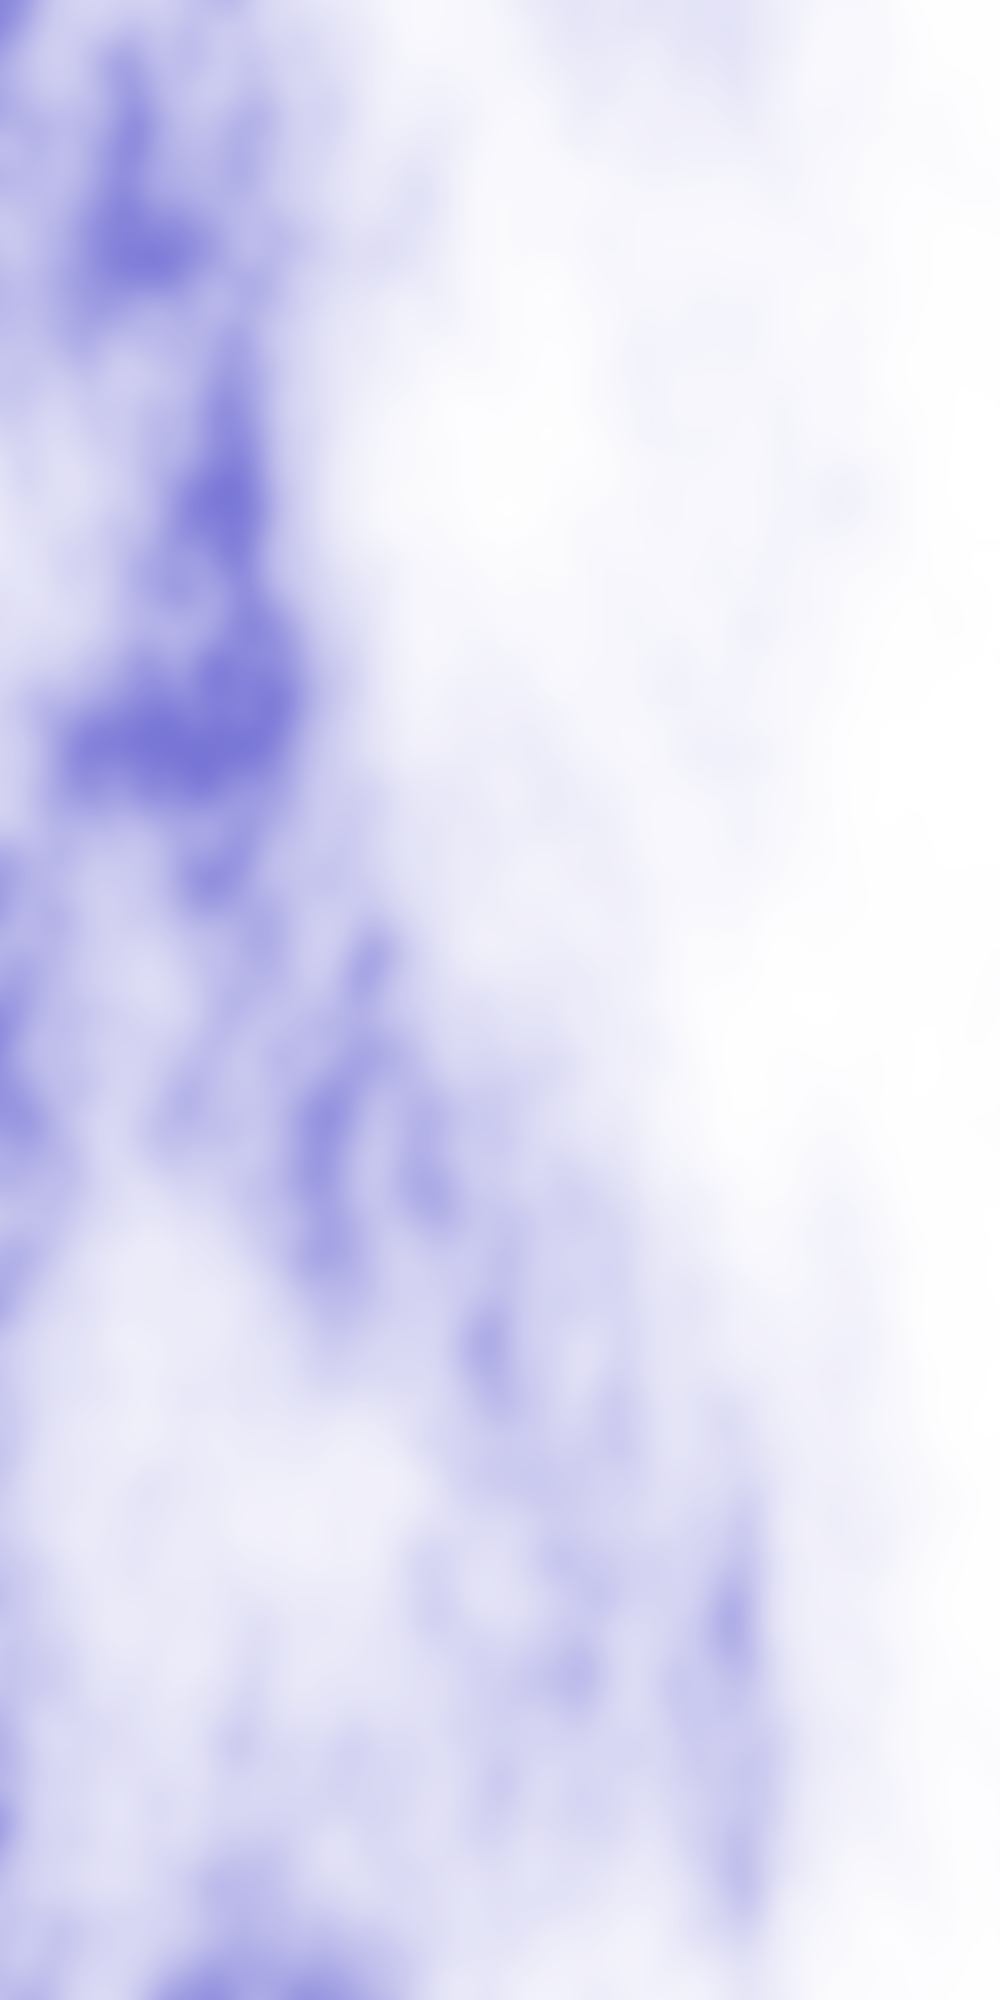
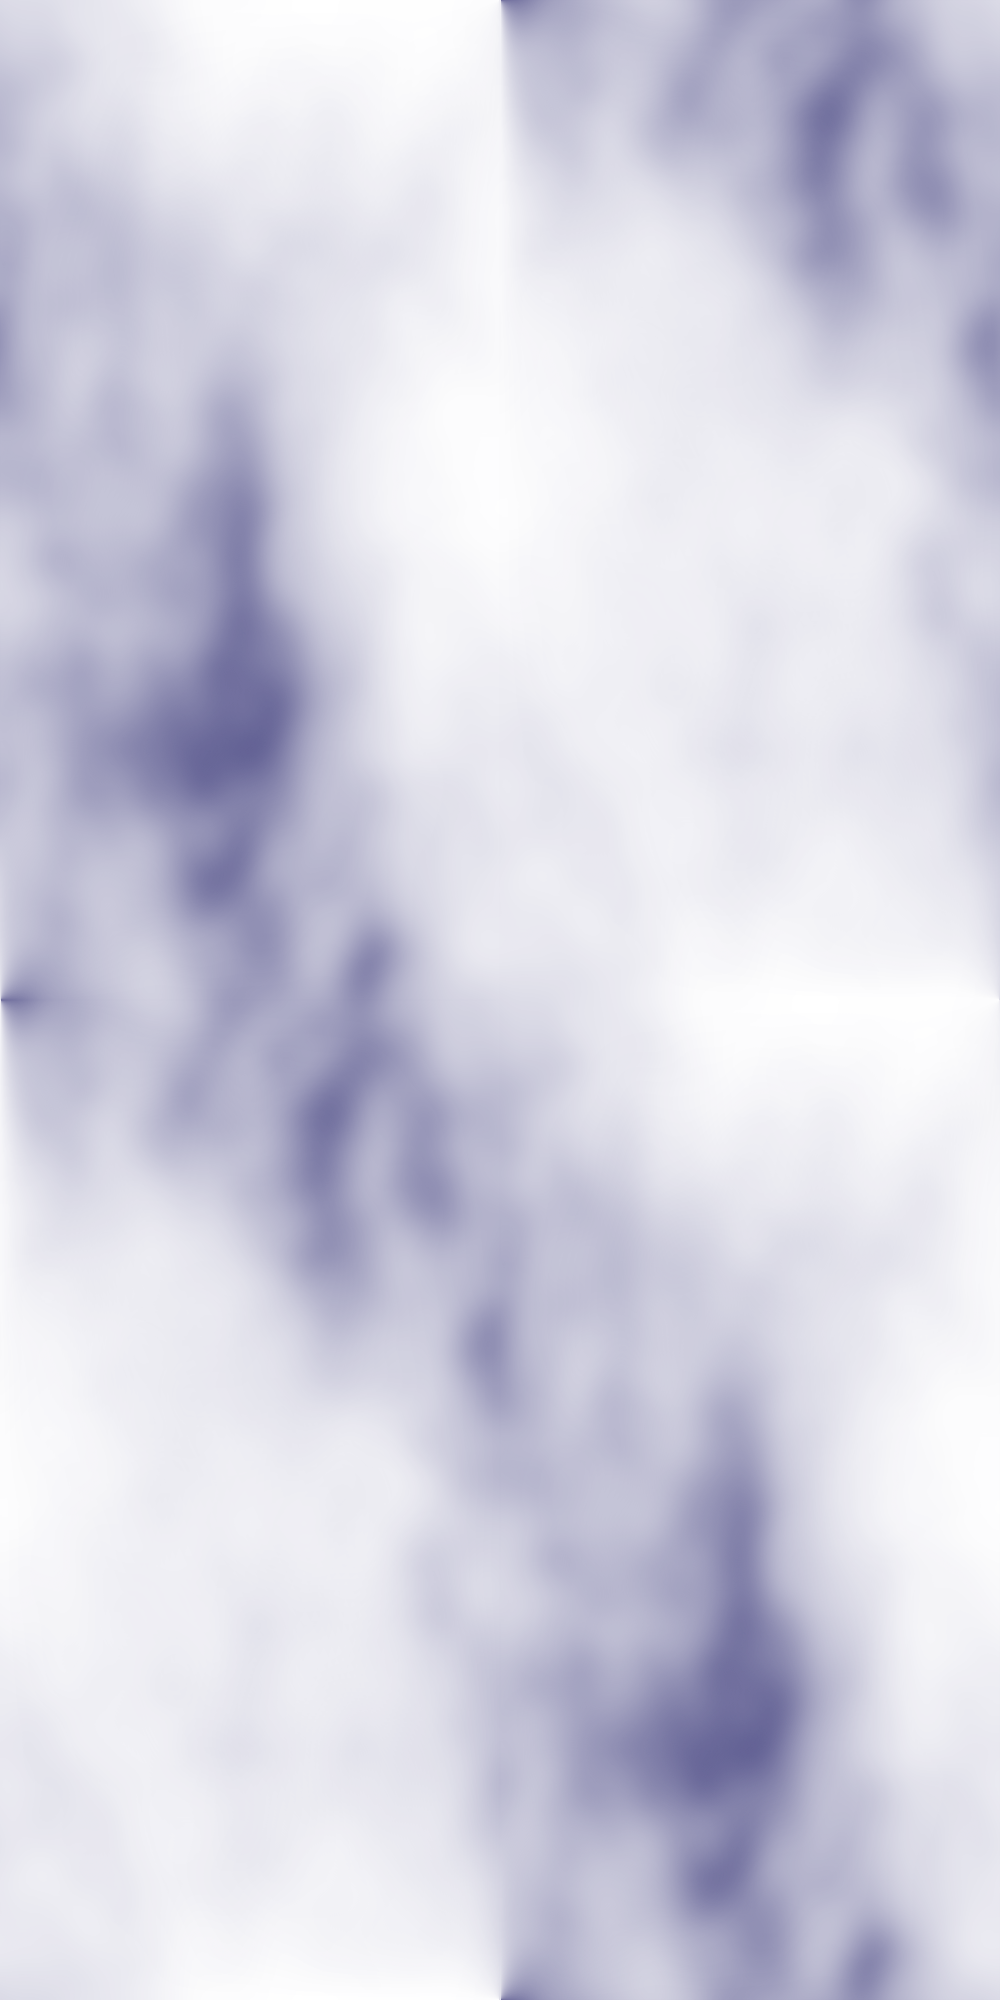
towards cyclic for, reversing sub

diff --git a/css/styles.css b/css/styles.css
@@ -1,12 +1,29 @@
-@keyframes submove {
-    from {
-//        background-position: 10% 20%;
-        background-size: 10%;
+@keyframes submove1 {
+    0% {
+        background-position: 0% 0%;
+        background-image: url("../sub-sm-right.png");
     }
 
-    to {
-//        background-position: 70% 70%;
-        background-size: 200%;
+    50% {
+        background-position: 70% 30%;
+        background-image: url("../sub-sm-right.png");
+    }
+
+    50.1% {
+        background-image: url("../sub-sm-left.png");
+    }
+
+    70% {
+        background-position: 20% 40%;
+        background-image: url("../sub-sm-left.png");
+    }
+
+    70.1% {
+        background-image: url("../sub-sm-right.png");
+    }
+
+    100% {
+        background-position: 50% 100%;
     }
 }
 
@@ -18,16 +35,14 @@
 	margin: 0;
 	padding: 0;
 	overflow: hidden;
-    background-image: url("../sub.png");
     background-repeat: no-repeat;
 }
 
 .submove {
-//    background-position: 100% 100%;
-    animation-name: submove;
-    animation-duration: 10s;
+    animation-name: submove1;
+    animation-duration: 60s;
     animation-fill-mode: forwards;
-    animation-timing-function: steps(10)
+    animation-timing-function: linear
 }
 
 @keyframes fogmove {
@@ -56,8 +71,9 @@
 .fogfarmove {
     background-position: 100% 100%;
     animation-name: fogmove;
-    animation-duration: 100s;
+    animation-duration: 200s;
     animation-fill-mode: forwards;
+    animation-iteration-count: infinite;
     animation-timing-function: steps(5000)
 }
 
@@ -79,6 +95,7 @@
     animation-name: fogmove;
     animation-duration: 50s;
     animation-fill-mode: forwards;
+    animation-iteration-count: infinite;
     animation-timing-function: steps(5000)
 }
 
@@ -100,6 +117,7 @@
     animation-name: fogmove;
     animation-duration: 40s;
     animation-fill-mode: forwards;
+    animation-iteration-count: infinite;
     animation-timing-function: steps(5000)
 }
 
